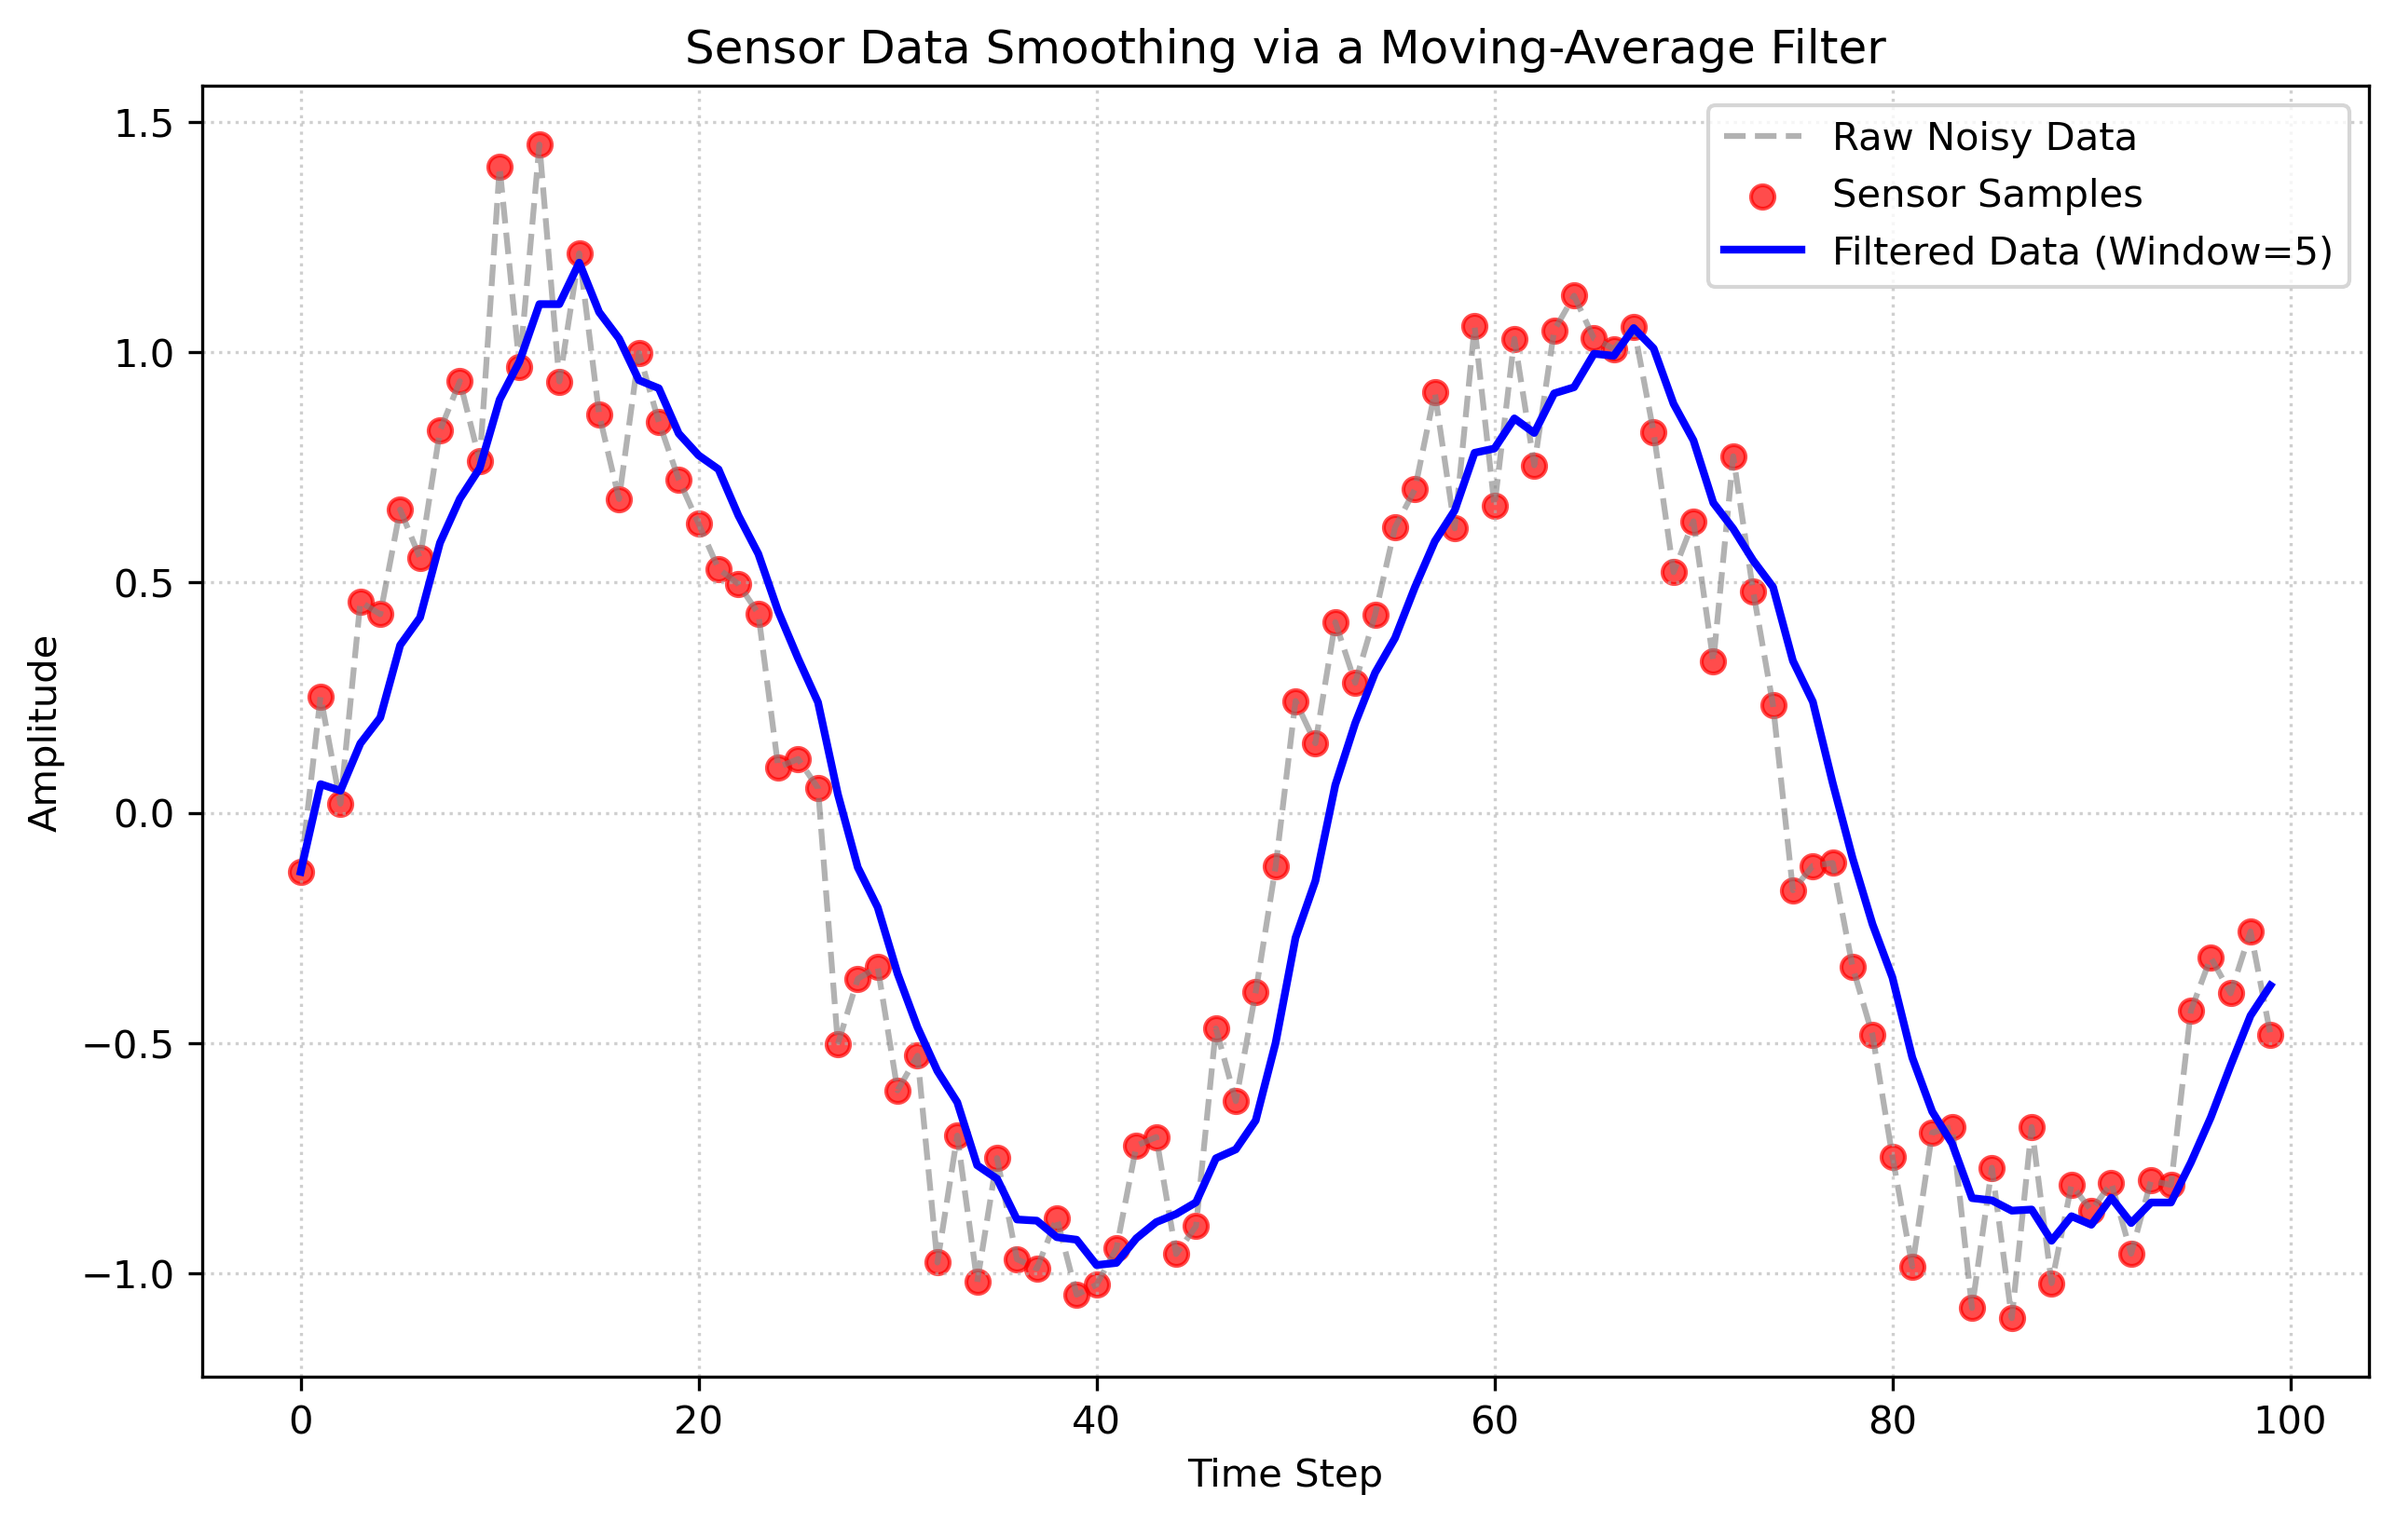
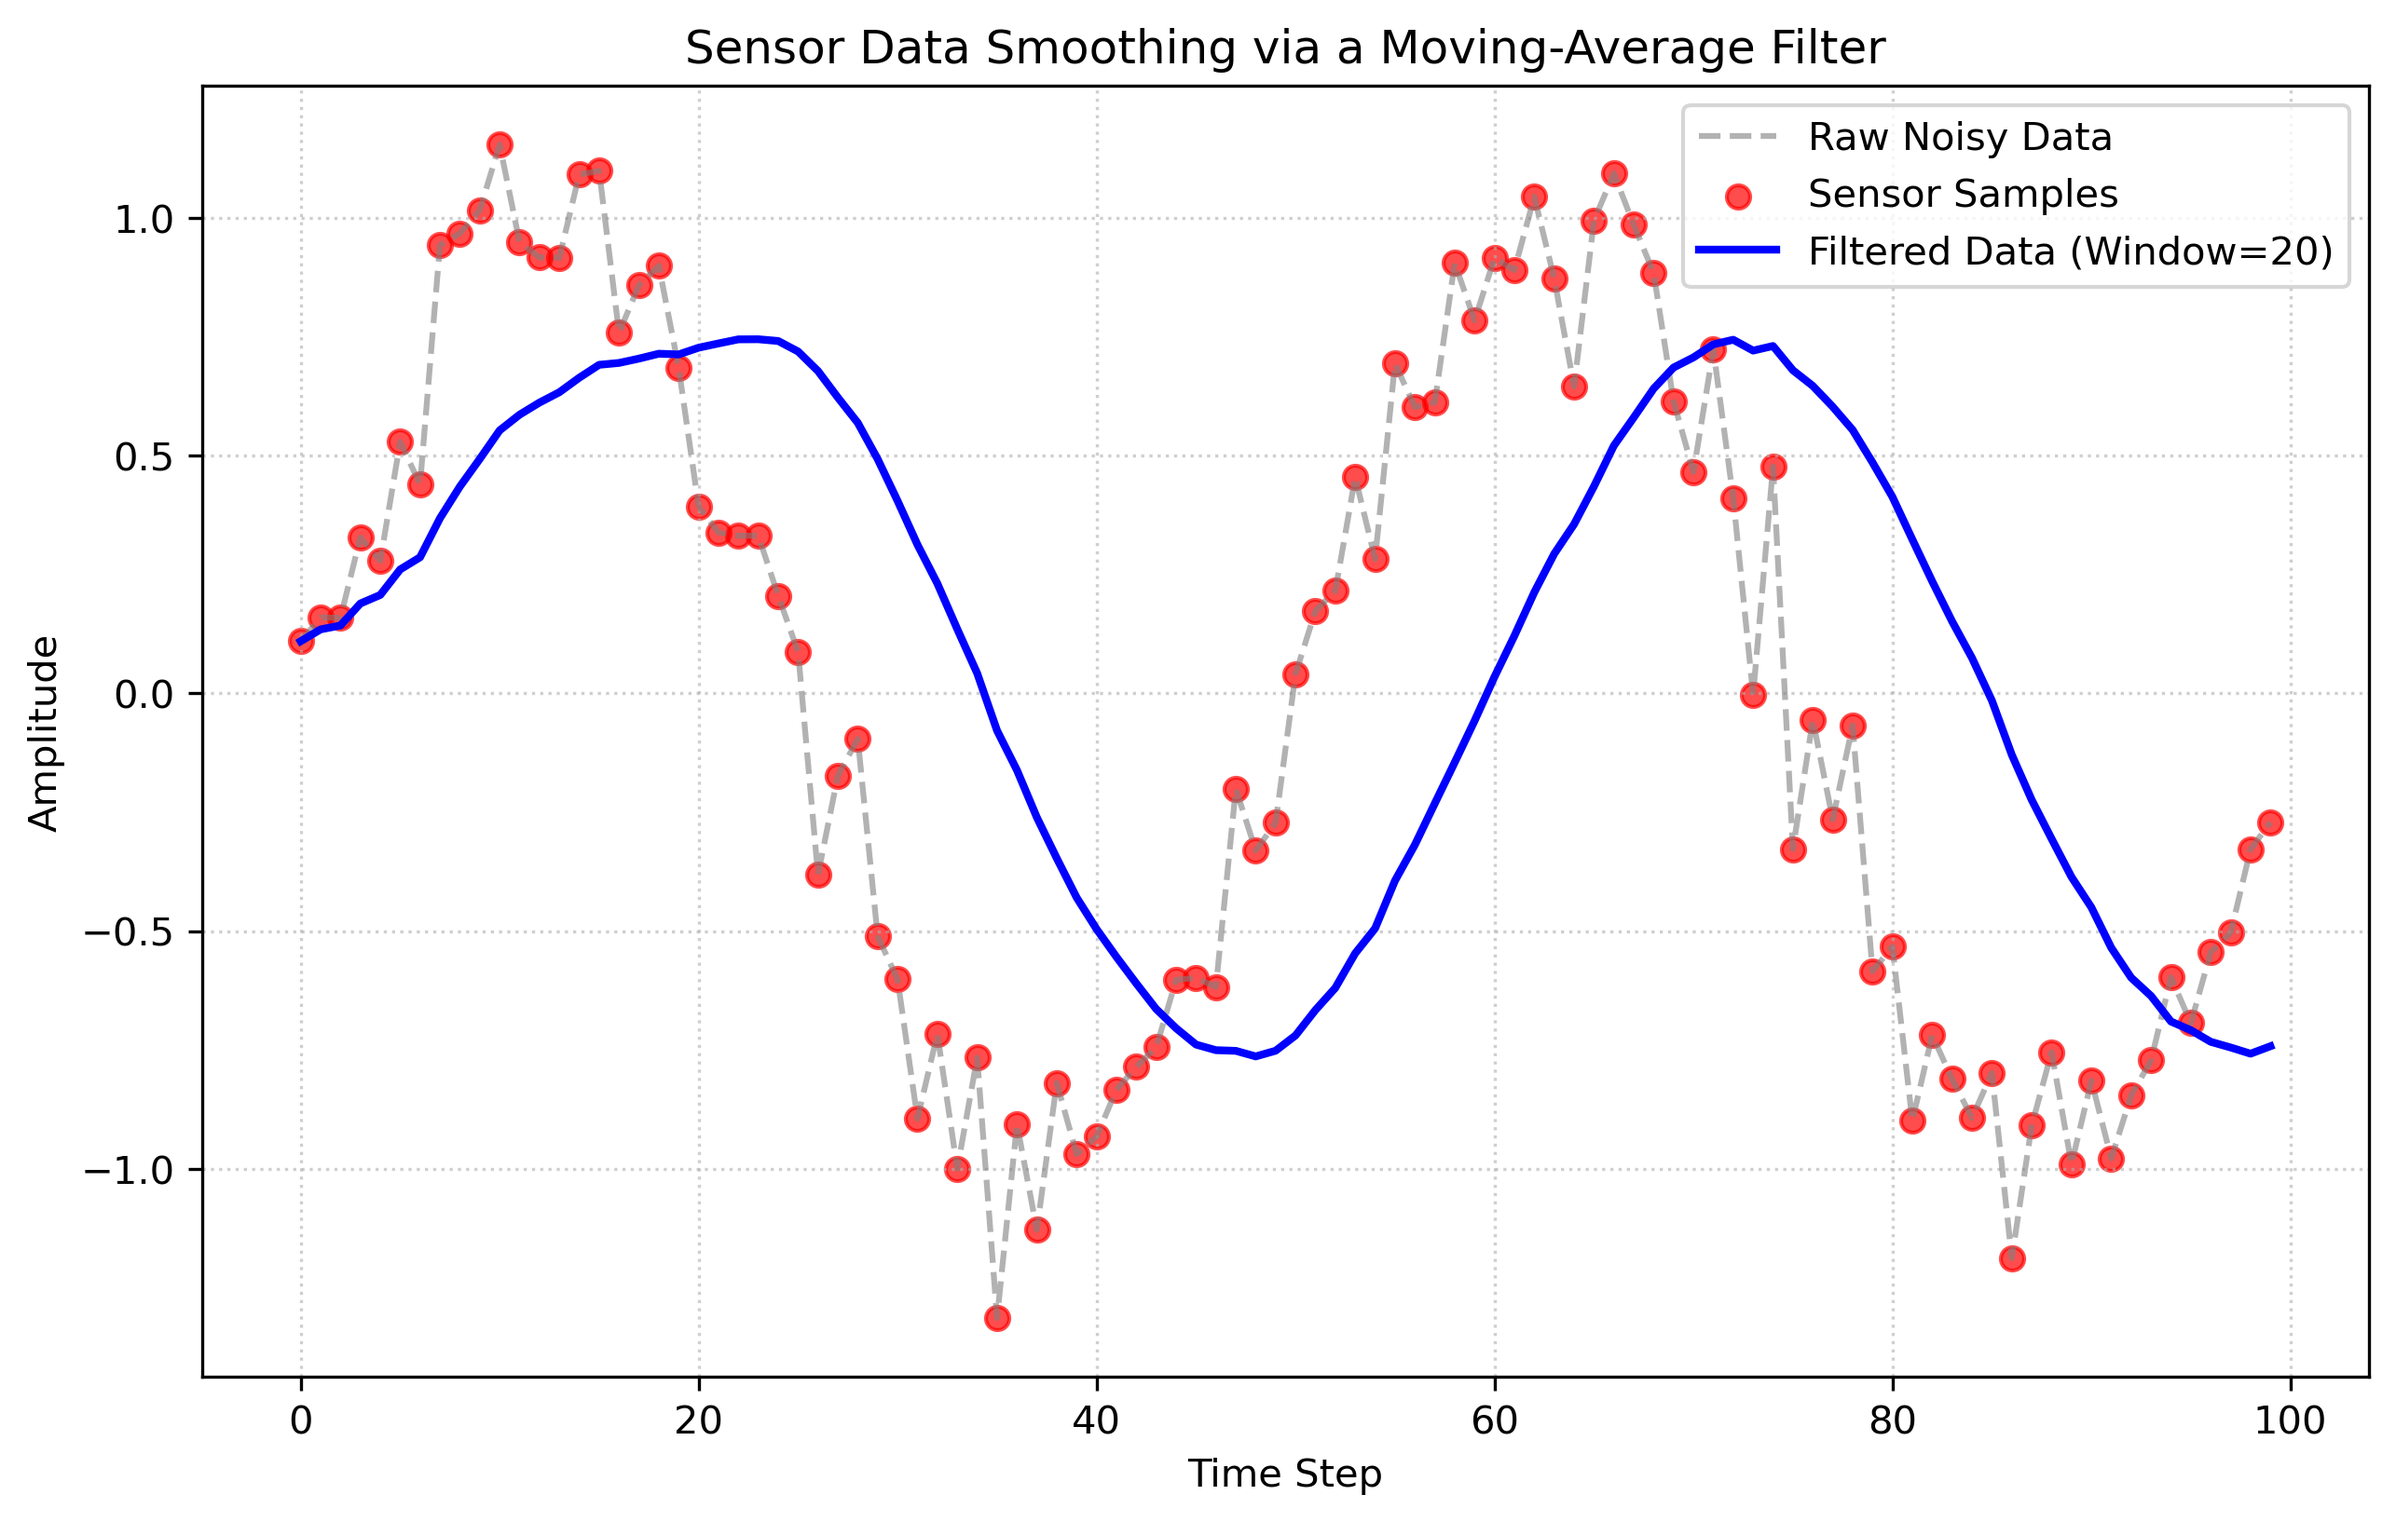
Editing the filter to see how changes in window size effects the graph

diff --git a/filter.py b/filter.py
@@ -15,8 +15,7 @@ for t in time_steps:
   noise = random.gauss(0, 0.15)
   raw_data.append(sine_value + noise)
 
-# Making the Filter
-window_size = 5
+window_size = 20
 filtered_data = []
 
 for i in range (len(raw_data)):
